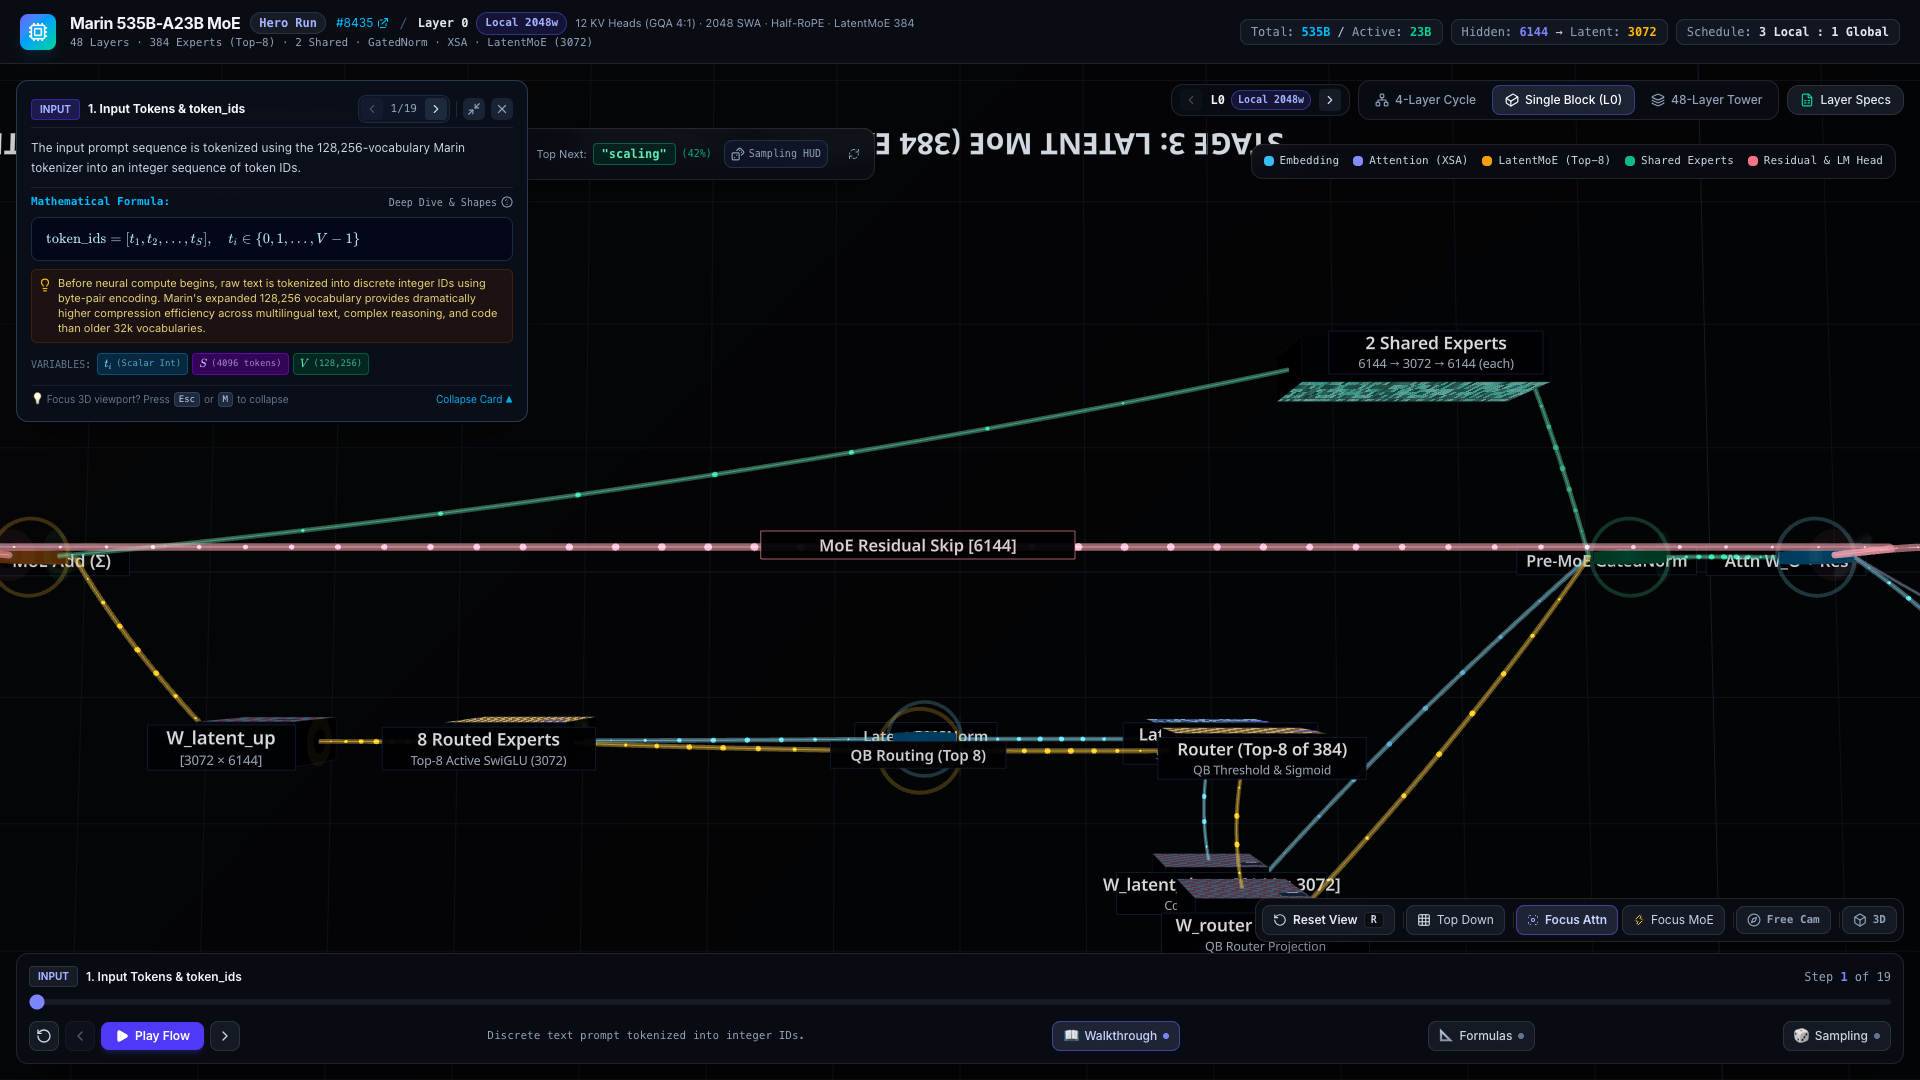
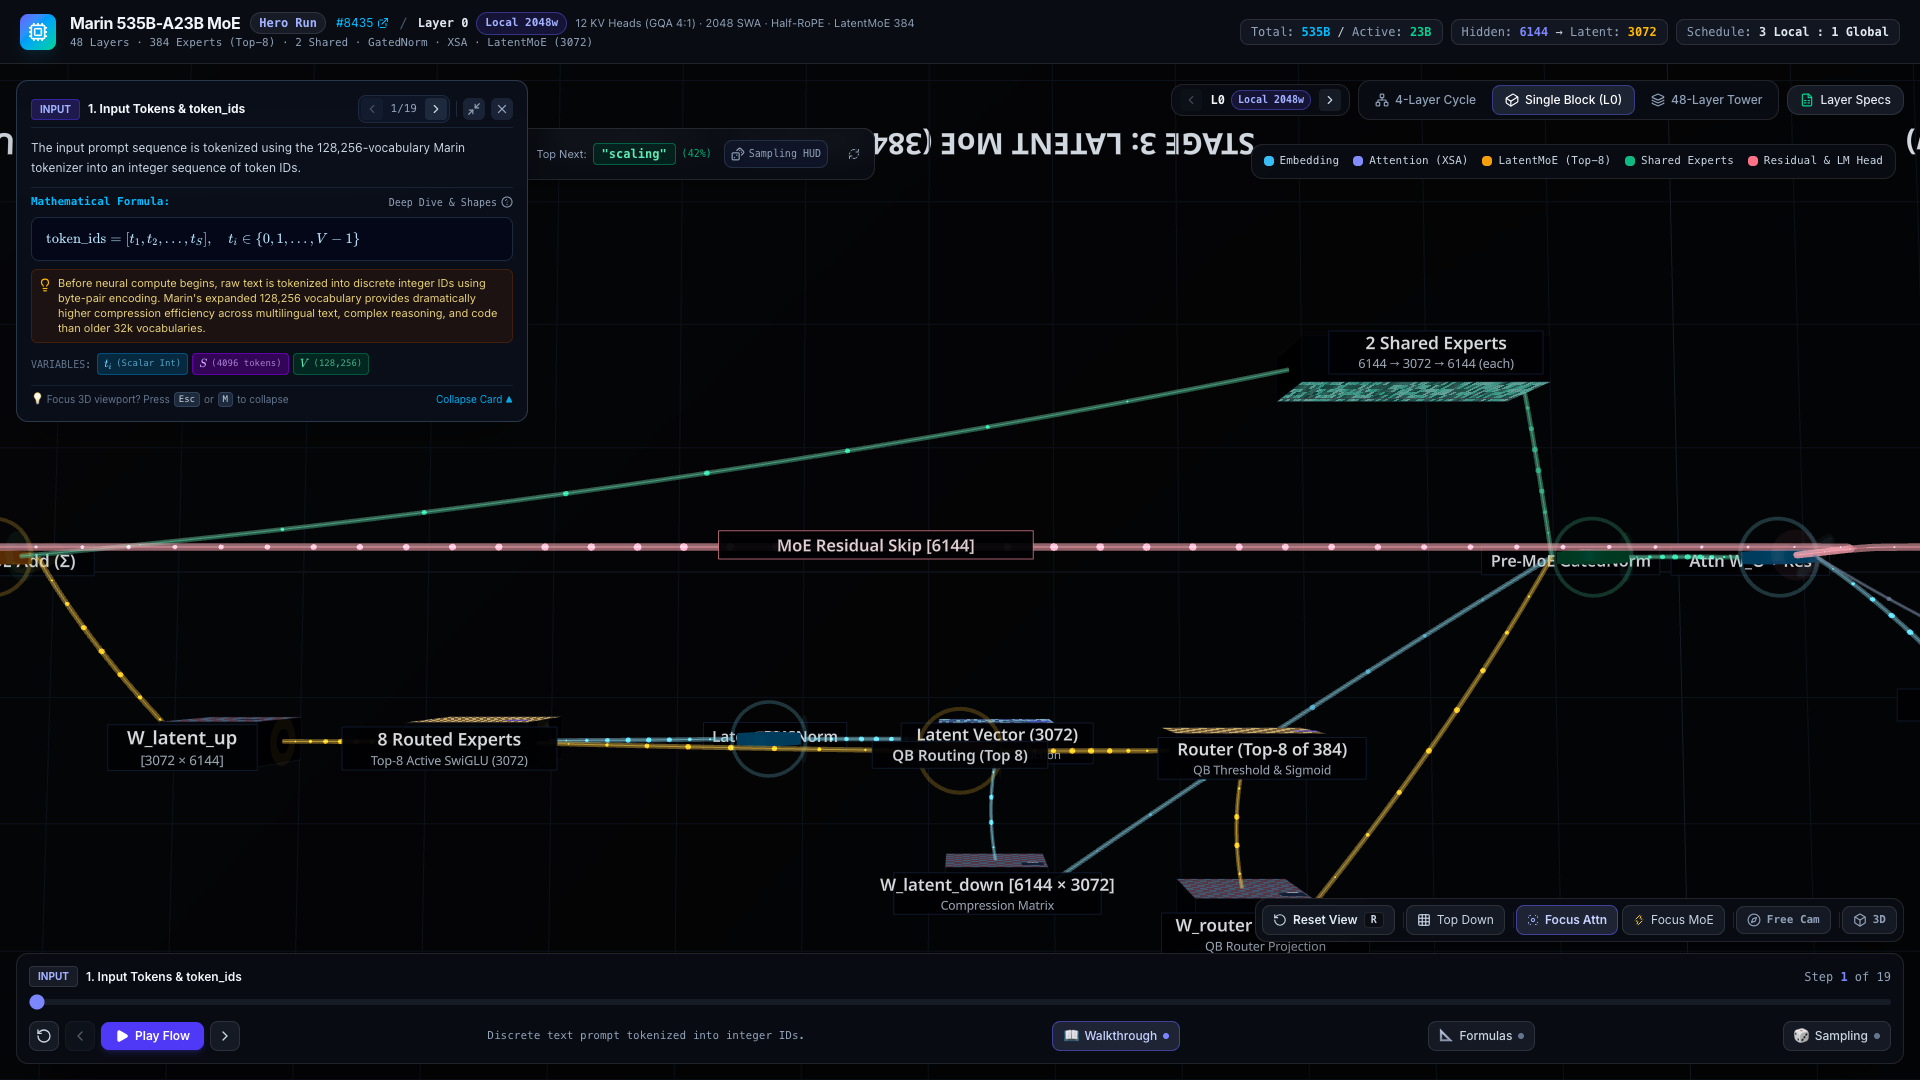
fix(visualizer): implement ultimate staggered X-axis offset for Z-Depth Projection layout to achieve zero occlusion

diff --git a/src/components/ThreeScene/MicroBlockView.tsx b/src/components/ThreeScene/MicroBlockView.tsx
@@ -310,7 +310,7 @@ export const MicroBlockView: React.FC<MicroBlockViewProps> = ({
         from={[-8.8, isFirstLayer ? 2.45 : 2.0, 0]}
         to={[13.5, 2.45, 0]}
         isResidual={true}
-        curveHeight={5.5}
+        curveHeight={6.5}
         isHighlighted={isFlowActive(isStep('attn_proj_residual'), [isFirstLayer ? 'op_embed_gn' : 'node_residual_in', 'op_attn_add'])}
         label="Residual Skip 1 [6144]"
       />
@@ -645,7 +645,7 @@ export const MicroBlockView: React.FC<MicroBlockViewProps> = ({
       {/* Flow to Router */}
       <FlowConnection
         from={[16.55, 2.0, 0]}
-        to={[20.8, 3.4, -4.5]}
+        to={[20.2, 3.4, -4.5]}
         color="#f59e0b"
         isHighlighted={isFlowActive(isStep('router_qb_selection'), ['op_moe_gn', 'node_w_router'])}
         label="Router In"
@@ -656,7 +656,7 @@ export const MicroBlockView: React.FC<MicroBlockViewProps> = ({
         id="node_w_router"
         label="W_router [6144 × 384]"
         subLabel="QB Router Projection"
-        position={[21.5, 3.4, -4.5]}
+        position={[21.0, 3.4, -4.5]}
         size={[1.4, 1.6, 0.6]}
         gridRows={12}
         gridCols={16}
@@ -671,8 +671,8 @@ export const MicroBlockView: React.FC<MicroBlockViewProps> = ({
 
       {/* W_router Weight into Router */}
       <FlowConnection
-        from={[21.5, 3.4, -4.2]}
-        to={[21.5, 3.4, -2.8]}
+        from={[21.0, 3.4, -4.2]}
+        to={[21.0, 3.4, -2.8]}
         color="#f59e0b"
         tubeRadius={0.025}
         particleCount={4}
@@ -685,7 +685,7 @@ export const MicroBlockView: React.FC<MicroBlockViewProps> = ({
         id="node_router"
         label="Router (Top-8 of 384)"
         subLabel="QB Threshold & Sigmoid"
-        position={[21.5, 3.4, -2.5]}
+        position={[21.0, 3.4, -2.5]}
         size={[1.8, 1.4, 0.5]}
         gridRows={activationData.tokens.length}
         gridCols={16}
@@ -699,8 +699,8 @@ export const MicroBlockView: React.FC<MicroBlockViewProps> = ({
 
       {/* Router Matrix to QB Operator */}
       <FlowConnection
-        from={[22.4, 3.4, -2.5]}
-        to={[25.0, 3.4, -2.5]}
+        from={[21.9, 3.4, -2.5]}
+        to={[24.0, 3.4, -2.5]}
         color="#f59e0b"
         isHighlighted={isFlowActive(isStep('router_qb_selection'), ['node_router', 'op_router_qb'])}
       />
@@ -710,7 +710,7 @@ export const MicroBlockView: React.FC<MicroBlockViewProps> = ({
         id="op_router_qb"
         name="QB Routing (Top 8)"
         symbol="QB"
-        position={[25.5, 3.4, -2.5]}
+        position={[24.5, 3.4, -2.5]}
         color="#f59e0b"
         isHighlighted={isHighlighted('op_router_qb')}
         onHover={onHoverItem}
@@ -723,7 +723,7 @@ export const MicroBlockView: React.FC<MicroBlockViewProps> = ({
         id="node_experts_shared"
         label="2 Shared Experts"
         subLabel="6144 → 3072 → 6144 (each)"
-        position={[19.0, 2.2, 2.5]}
+        position={[18.5, 2.2, 2.5]}
         size={[64 * DIM_W, 1.6, 0.6]}
         gridRows={activationData.tokens.length}
         gridCols={64}
@@ -739,7 +739,7 @@ export const MicroBlockView: React.FC<MicroBlockViewProps> = ({
       {/* Full-Width mlp_in into 2 Shared Experts */}
       <FlowConnection
         from={[16.55, 2.0, 0]}
-        to={[17.4, 2.2, 2.5]}
+        to={[17.0, 2.2, 2.5]}
         color="#10b981"
         isHighlighted={isFlowActive(isStep('shared_experts_swiglu'), ['op_moe_gn', 'node_experts_shared'])}
         label="Full Width [6144]"
@@ -749,7 +749,7 @@ export const MicroBlockView: React.FC<MicroBlockViewProps> = ({
       {/* Branch to Latent Down */}
       <FlowConnection
         from={[16.55, 2.0, 0]}
-        to={[20.8, 0.8, -4.5]}
+        to={[23.2, 0.8, -4.5]}
         color="#38bdf8"
         isHighlighted={isFlowActive(isStep('latent_compression'), ['op_moe_gn', 'node_w_latent_down'])}
         label="Compress 6144→3072"
@@ -760,7 +760,7 @@ export const MicroBlockView: React.FC<MicroBlockViewProps> = ({
         id="node_w_latent_down"
         label="W_latent_down [6144 × 3072]"
         subLabel="Compression Matrix"
-        position={[21.5, 0.8, -4.5]}
+        position={[24.0, 0.8, -4.5]}
         size={[1.4, 1.4, 0.6]}
         gridRows={12}
         gridCols={12}
@@ -775,8 +775,8 @@ export const MicroBlockView: React.FC<MicroBlockViewProps> = ({
 
       {/* W_latent_down Weight into Latent Down Matrix */}
       <FlowConnection
-        from={[21.5, 0.8, -4.2]}
-        to={[21.5, 0.8, -2.8]}
+        from={[24.0, 0.8, -4.2]}
+        to={[24.0, 0.8, -2.8]}
         color="#38bdf8"
         tubeRadius={0.025}
         particleCount={4}
@@ -789,7 +789,7 @@ export const MicroBlockView: React.FC<MicroBlockViewProps> = ({
         id="node_latent_down"
         label="Latent Vector (3072)"
         subLabel="50% Comms Reduction"
-        position={[21.5, 0.8, -2.5]}
+        position={[24.0, 0.8, -2.5]}
         size={[32 * DIM_W, 1.4, 0.5]}
         gridRows={activationData.tokens.length}
         gridCols={32}
@@ -804,8 +804,8 @@ export const MicroBlockView: React.FC<MicroBlockViewProps> = ({
 
       {/* Latent Down to Latent RMSNorm */}
       <FlowConnection
-        from={[22.3, 0.8, -2.5]}
-        to={[25.0, 0.8, -2.5]}
+        from={[24.8, 0.8, -2.5]}
+        to={[26.7, 0.8, -2.5]}
         color="#38bdf8"
         isHighlighted={isFlowActive(isStep('latent_compression'), ['node_latent_down', 'op_latent_norm'])}
         label="RMSNorm"
@@ -816,7 +816,7 @@ export const MicroBlockView: React.FC<MicroBlockViewProps> = ({
         id="op_latent_norm"
         name="Latent RMSNorm"
         symbol="LN"
-        position={[25.5, 0.8, -2.5]}
+        position={[27.2, 0.8, -2.5]}
         color="#38bdf8"
         isHighlighted={isHighlighted('op_latent_norm')}
         onHover={onHoverItem}
@@ -826,20 +826,20 @@ export const MicroBlockView: React.FC<MicroBlockViewProps> = ({
 
       {/* QB Router to 8 Routed Experts: Gating dispatch */}
       <FlowConnection
-        from={[26.0, 3.4, -2.5]}
+        from={[25.0, 3.4, -2.5]}
         to={[30.2, 1.8, -2.5]}
         color="#f59e0b"
-        curveHeight={0.4}
+        curveHeight={0.3}
         isHighlighted={isFlowActive(isStep('router_qb_selection') || isStep('routed_experts_swiglu'), ['op_router_qb', 'node_experts_routed'])}
         label="Top-8 Gating Beam"
       />
 
       {/* Latent RMSNorm into 8 Routed Experts */}
       <FlowConnection
-        from={[26.0, 0.8, -2.5]}
+        from={[27.7, 0.8, -2.5]}
         to={[30.2, 1.2, -2.5]}
         color="#38bdf8"
-        curveHeight={0.2}
+        curveHeight={0.15}
         isHighlighted={isFlowActive(isStep('routed_experts_swiglu'), ['op_latent_norm', 'node_experts_routed'])}
         label="Latent [3072]"
       />
@@ -901,7 +901,7 @@ export const MicroBlockView: React.FC<MicroBlockViewProps> = ({
 
       {/* Shared Experts to MoE Add */}
       <FlowConnection
-        from={[20.6, 2.2, 2.5]}
+        from={[20.1, 2.2, 2.5]}
         to={[37.0, 2.2, 0]}
         color="#10b981"
         isHighlighted={isFlowActive(isStep('shared_experts_swiglu') || isStep('moe_aggregation_residual'), ['node_experts_shared', 'op_moe_add'])}

diff --git a/src/data/stepDefinitions.ts b/src/data/stepDefinitions.ts
@@ -206,8 +206,8 @@ const RAW_FORWARD_STEPS: Omit<ForwardStep, 'formulaData'>[] = [
     realShape: 'Logits: [4096, 384], Selected: [4096, 8]',
     visualShape: 'Logits: [6, 24], Selected: [6, 8]',
     hardwareSignificance: 'QB (Quantile Balancing) dynamically balances load across GPU nodes without intrusive auxiliary balance loss penalties.',
-    cameraFocus: [23.0, 3.2, -2.5],
-    cameraPos: [23.0, 6.5, 5.0],
+    cameraFocus: [22.5, 3.4, -2.5],
+    cameraPos: [22.5, 7.0, 5.0],
     activeNodeIds: ['node_router', 'op_router_qb'],
   },
   {
@@ -222,7 +222,7 @@ const RAW_FORWARD_STEPS: Omit<ForwardStep, 'formulaData'>[] = [
     realShape: '[1, 4096, 3072]',
     visualShape: '[1, 6, 32]',
     hardwareSignificance: 'Cuts EP all-to-all cross-node network bandwidth in HALF (150 GB/s -> 75 GB/s), preventing network bottlenecks on 11-rack clusters.',
-    cameraFocus: [25.5, 1.2, -2.5],
+    cameraFocus: [25.5, 0.8, -2.5],
     cameraPos: [25.5, 4.5, 5.0],
     activeNodeIds: ['node_latent_down', 'op_latent_norm'],
   },
